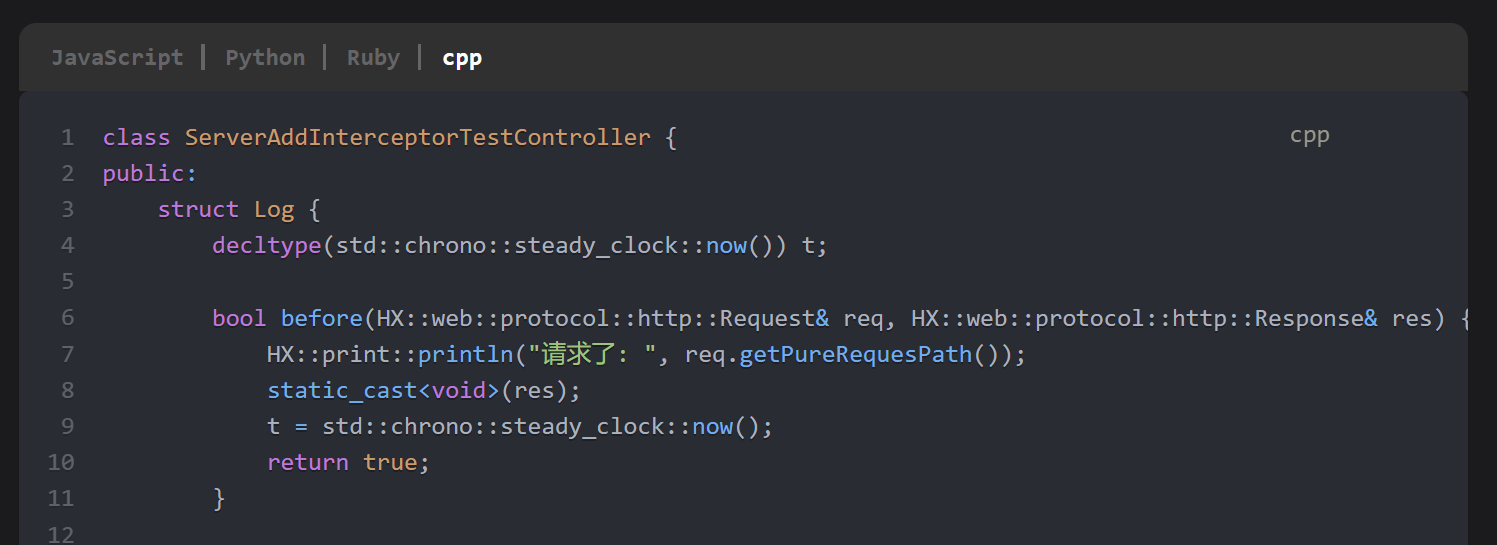
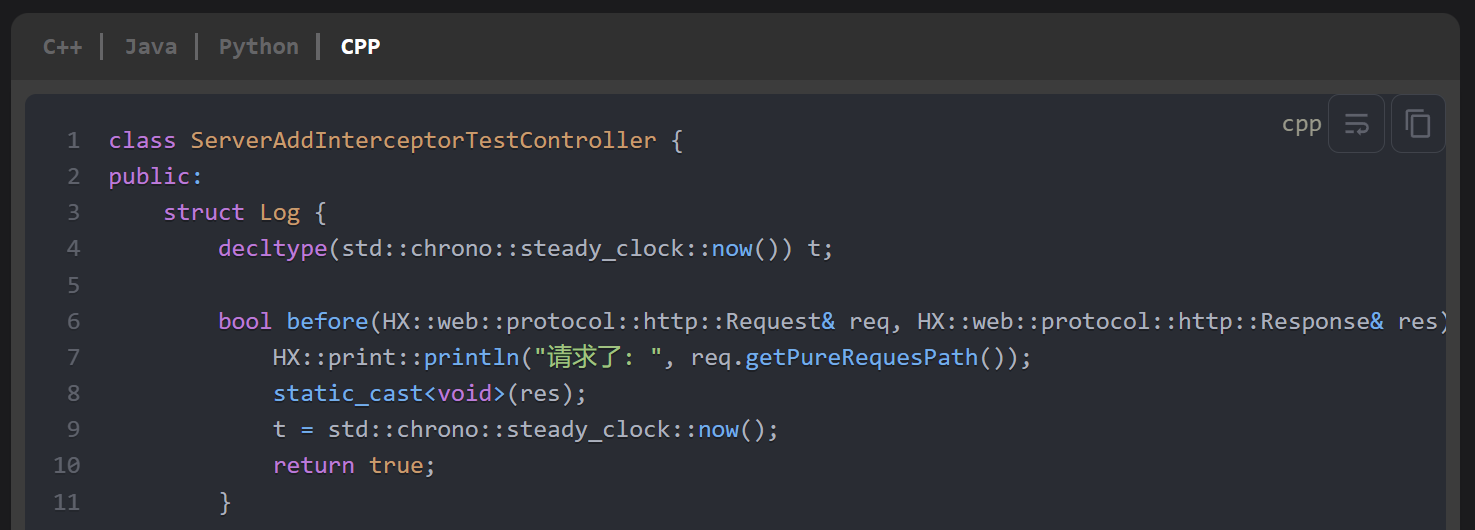
修复了组合代码块的一个渲染的bug(之前调整的时候忘记改了)

diff --git a/src/theme/CodeBlock/Content/String.tsx b/src/theme/CodeBlock/Content/String.tsx
@@ -281,120 +281,64 @@ function MakeSimpleCodeBlock (
         magicComments,
     });
 
-    return metastring === 'leetcode'
-        ? (
-            <Container
-                as="div"
-                className={clsx(
-                    blockClassName,
-                    language &&
-                    !blockClassName.includes(`language-${language}`) &&
-                    `language-${language}`,
-                )}
+    return (
+        <Container
+            as="div"
+            className={clsx(
+                blockClassName,
+                language &&
+                !blockClassName.includes(`language-${language}`) &&
+                `language-${language}`,
+            )}
+        >
+            {title && <div className={styles.codeBlockTitle}>{title}</div>}
+            <div
+                className={clsx(styles.codeBlockContent, isLeeCodeTab && 'leetcode-tabs-content' || undefined)}
+                style={{ borderTopLeftRadius: '0px', borderTopRightRadius: '0px' }}
             >
-                {title && <div className={styles.codeBlockTitle}>{title}</div>}
-                <div
-                    className={clsx(styles.codeBlockContent, 'leetcode-tabs-content')}
-                    style={{ borderTopLeftRadius: '0px', borderTopRightRadius: '0px' }}
-                >
-                    <Highlight
-                        theme={prismTheme}
-                        code={code}
-                        language={(language ?? 'text') as Language}>
-                        {({ className, style, tokens, getLineProps, getTokenProps }) => (
-                            <pre
-                                /* eslint-disable-next-line jsx-a11y/no-noninteractive-tabindex */
-                                tabIndex={0}
-                                ref={wordWrap.codeBlockRef}
-                                className={clsx(className, styles.codeBlock, 'thin-scrollbar')}>
-                                <code
-                                    className={clsx(
-                                        styles.codeBlockLines,
-                                        showLineNumbers && styles.codeBlockLinesWithNumbering,
-                                    )}>
-                                    {tokens.map((line, i) => (
-                                        <Line
-                                            key={i}
-                                            line={line}
-                                            getLineProps={getLineProps}
-                                            getTokenProps={getTokenProps}
-                                            classNames={lineClassNames[i]}
-                                            showLineNumbers={showLineNumbers}
-                                        />
-                                    ))}
-                                </code>
-                            </pre>
-                        )}
-                    </Highlight>
-                    <div className={styles.buttonGroup}>
-                        {fkPrefixLanguage && <span className={styles.languageName}>{fkPrefixLanguage}</span>}
-                        {(wordWrap.isEnabled || wordWrap.isCodeScrollable) && (
-                            <WordWrapButton
-                                className={styles.codeButton}
-                                onClick={() => wordWrap.toggle()}
-                                isEnabled={wordWrap.isEnabled}
-                            />
-                        )}
-                        <CopyButton className={styles.codeButton} code={code} />
-                    </div>
+                <Highlight
+                    theme={prismTheme}
+                    code={code}
+                    language={(language ?? 'text') as Language}>
+                    {({ className, style, tokens, getLineProps, getTokenProps }) => (
+                        <pre
+                            /* eslint-disable-next-line jsx-a11y/no-noninteractive-tabindex */
+                            tabIndex={0}
+                            ref={wordWrap.codeBlockRef}
+                            className={clsx(className, styles.codeBlock, 'thin-scrollbar')}>
+                            <code
+                                className={clsx(
+                                    styles.codeBlockLines,
+                                    showLineNumbers && styles.codeBlockLinesWithNumbering,
+                                )}>
+                                {tokens.map((line, i) => (
+                                    <Line
+                                        key={i}
+                                        line={line}
+                                        getLineProps={getLineProps}
+                                        getTokenProps={getTokenProps}
+                                        classNames={lineClassNames[i]}
+                                        showLineNumbers={showLineNumbers}
+                                    />
+                                ))}
+                            </code>
+                        </pre>
+                    )}
+                </Highlight>
+                <div className={styles.buttonGroup}>
+                    {fkPrefixLanguage && <span className={styles.languageName}>{fkPrefixLanguage}</span>}
+                    {(wordWrap.isEnabled || wordWrap.isCodeScrollable) && (
+                        <WordWrapButton
+                            className={styles.codeButton}
+                            onClick={() => wordWrap.toggle()}
+                            isEnabled={wordWrap.isEnabled}
+                        />
+                    )}
+                    <CopyButton className={styles.codeButton} code={code} />
                 </div>
-            </Container>
-        )
-        : (
-            <Container
-                as="div"
-                className={clsx(
-                    blockClassName,
-                    language &&
-                    !blockClassName.includes(`language-${language}`) &&
-                    `language-${language}`,
-                )}>
-                {title && <div className={styles.codeBlockTitle}>{title}</div>}
-                <div className={styles.codeBlockContent}>
-                    <Highlight
-                        theme={prismTheme}
-                        code={code}
-                        language={(language ?? 'text') as Language}>
-                        {({ className, style, tokens, getLineProps, getTokenProps }) => (
-                            <pre
-                                /* eslint-disable-next-line jsx-a11y/no-noninteractive-tabindex */
-                                tabIndex={0}
-                                ref={wordWrap.codeBlockRef}
-                                className={clsx(className, styles.codeBlock, 'thin-scrollbar')}
-                                style={style}>
-                                <code
-                                    className={clsx(
-                                        styles.codeBlockLines,
-                                        showLineNumbers && styles.codeBlockLinesWithNumbering,
-                                    )}>
-                                    {tokens.map((line, i) => (
-                                        <Line
-                                            key={i}
-                                            line={line}
-                                            getLineProps={getLineProps}
-                                            getTokenProps={getTokenProps}
-                                            classNames={lineClassNames[i]}
-                                            showLineNumbers={showLineNumbers}
-                                        />
-                                    ))}
-                                </code>
-                            </pre>
-                        )}
-                    </Highlight>
-                    <div className={styles.buttonGroup}>
-                        {fkPrefixLanguage && <span className={styles.languageName}>{fkPrefixLanguage}</span>}
-                        {(wordWrap.isEnabled || wordWrap.isCodeScrollable) && (
-                            <WordWrapButton
-                                className={styles.codeButton}
-                                onClick={() => wordWrap.toggle()}
-                                isEnabled={wordWrap.isEnabled}
-                            />
-                        )}
-                        <CopyButton className={styles.codeButton} code={code} />
-                    </div>
-                </div>
-            </Container>
-        );
+            </div>
+        </Container>
+    );
 }
 
 /**
@@ -799,12 +743,12 @@ export default function CodeBlockString ({
 
     // 解析 metastring 判断是否包含 [组名-标题] 格式
     // 特别的, 它不会被渲染为 vscode 样式, 因为没有必要.
-    const match = metastring?.match(/\[(.+)-(.+)\]/); // 提取 组名, 标题
+    const match = metastring?.match(/\[(.+?)-(.+)\]/); // 提取 组名, 标题
     if (match) {
         return makeTabsCodeBlock({
             children,
             className: blockClassName = '',
-            metastring: metastring?.replace(/\[(.+)-(.+)\]/, '') || '',
+            metastring: metastring?.replace(/\[(.+?)-(.+)\]/, '') || '',
             title: titleProp,
             showLineNumbers: showLineNumbersProp,
             language: fkPrefixLanguage,

diff --git a/docs/01-HXLoLiHub使用说明/03-MarkDown拓展/index.md b/docs/01-HXLoLiHub使用说明/03-MarkDown拓展/index.md
@@ -63,6 +63,59 @@ System.out.println("Java");
 print("Python")
 ```
 
+```cpp [g1-One-Dark-Pro主题展示]
+class ServerAddInterceptorTestController {
+public:
+    struct Log {
+        decltype(std::chrono::steady_clock::now()) t;
+
+        bool before(HX::web::protocol::http::Request& req, HX::web::protocol::http::Response& res) {
+            HX::print::println("请求了: ", req.getPureRequesPath());
+            static_cast<void>(res);
+            t = std::chrono::steady_clock::now();
+            return true;
+        }
+
+        bool after(HX::web::protocol::http::Request& req, HX::web::protocol::http::Response& res) {
+            auto t1 = std::chrono::steady_clock::now();
+            auto dt = t1 - t;
+            int64_t us = std::chrono::duration_cast<std::chrono::milliseconds>(dt).count();
+            HX::print::println("已响应: ", req.getPureRequesPath(), "花费: ", us, " us");
+            static_cast<void>(res);
+            return true;
+        }
+    };
+
+    ROUTER
+        .on<GET, POST>("/", [](
+            Request& req,
+            Response& res
+        ) -> Task<> {
+            auto map = req.getParseQueryParameters();
+            if (map.find("loli") == map.end()) {
+                res.setResponseLine(Status::CODE_200)
+                .setContentType(HX::web::protocol::http::ResContentType::html)
+                .setBodyData("<h1>You is no good!</h1>");
+                co_return;
+            }
+            res.setResponseLine(Status::CODE_200)
+            .setContentType(HX::web::protocol::http::ResContentType::html)
+            .setBodyData("<h1>yo si yo si!</h1>");
+        }, Log{})
+        .on<GET, POST>("/home/{id}/**", [](
+            Request& req,
+            Response& res
+        ) -> Task<> {
+            static_cast<void>(req);
+            res.setResponseLine(Status::CODE_200)
+            .setContentType(HX::web::protocol::http::ResContentType::html)
+            .setBodyData("<h1>This is Home</h1>");
+            co_return;
+        })
+    ROUTER_END;
+};
+```
+
 语法:
 
 ````markdown
@@ -94,6 +147,8 @@ print("Python")
 > - 只要它们使用**相同的分组名**, 就会被解析到同一个代码块, **无论是在文章的何处**! *(只要是同一篇文章内)*
 >
 > - 标题名称 **不能** 相同! 否则是 UB (未定义行为)
+>
+> - 分组名称不能含有`-`, 例如 `[g-01-c++]` 你期望 `g-01` 是分组, 而实际上解析到的分组是 `g`. (因此尽量不要在分组代码块`[]`中使用`-`, 以免影响解析的正确性.)
 
 ## 三、可编辑的代码块 (内嵌VsCode同款编辑器)
 
